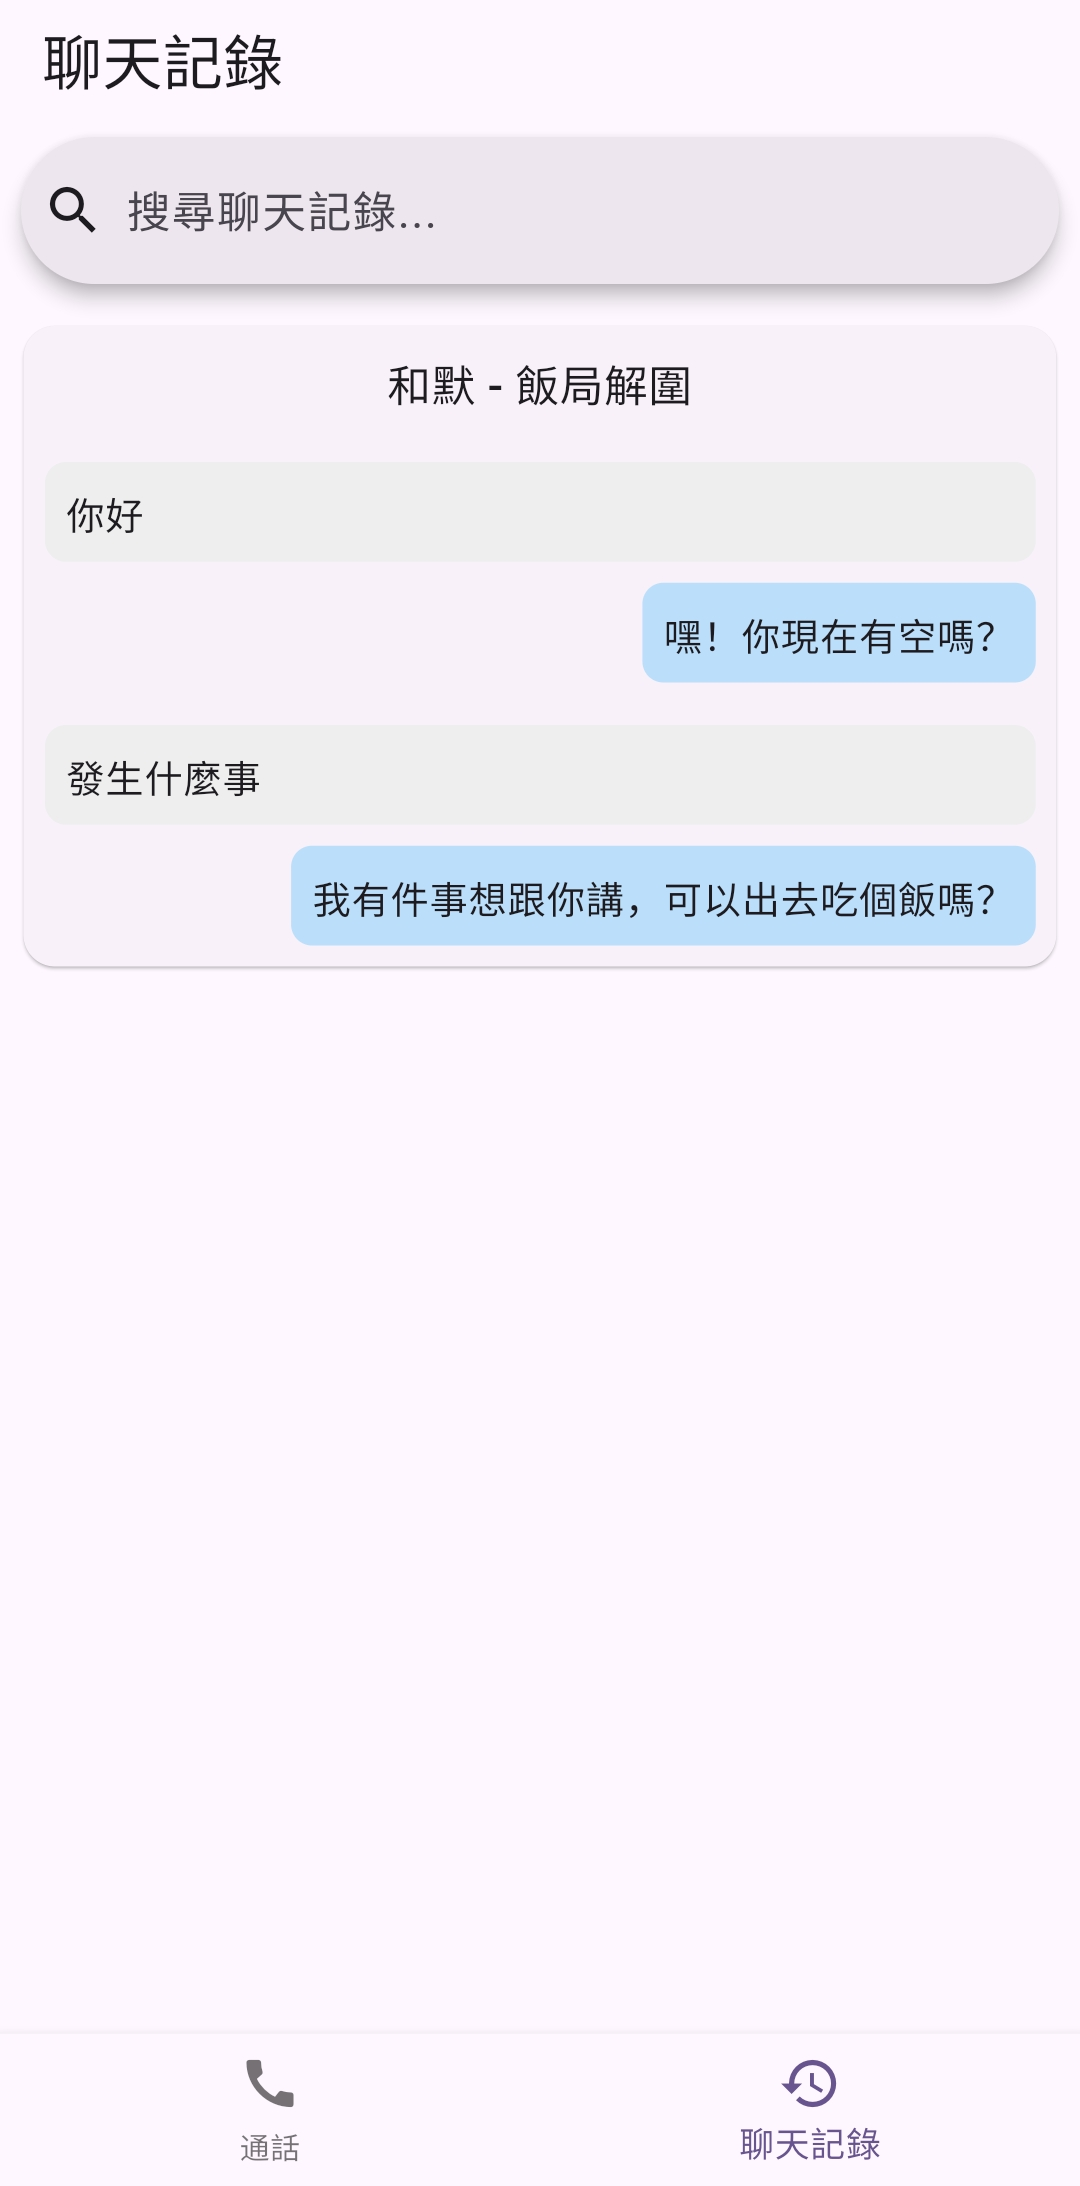
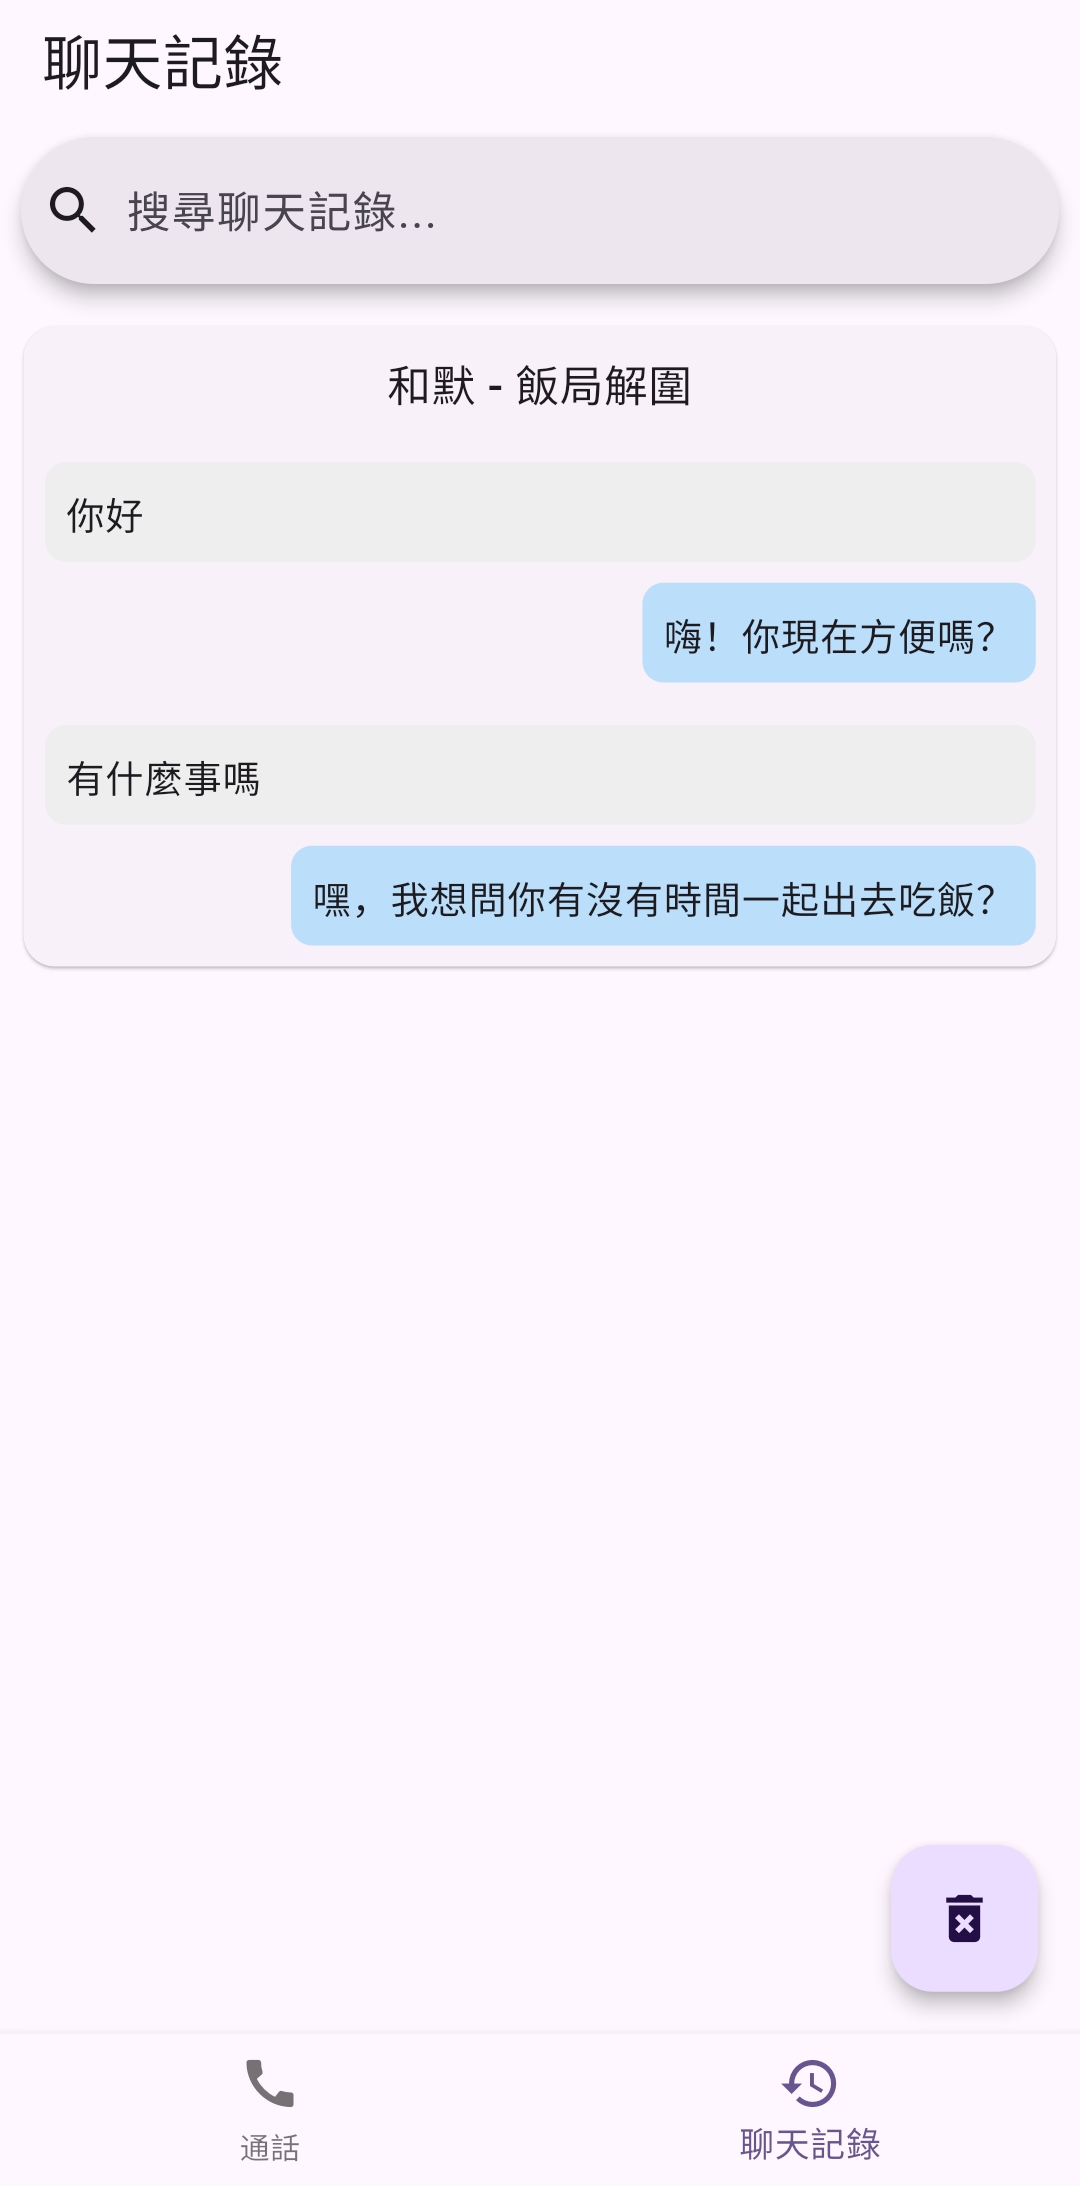
feat: remove chat records

diff --git a/lib/pages/chat_history.dart b/lib/pages/chat_history.dart
@@ -12,6 +12,13 @@ class ChatHistoryPage extends StatefulWidget {
 class _ChatHistoryPageState extends State<ChatHistoryPage> {
   final TextEditingController _searchController = TextEditingController();
   String _searchQuery = '';
+  late Future<List<ChatRecord>> _recordsFuture;
+
+  @override
+  void initState() {
+    super.initState();
+    _recordsFuture = ChatRecordService().getRecords();
+  }
 
   @override
   void dispose() {
@@ -34,9 +41,63 @@ class _ChatHistoryPageState extends State<ChatHistoryPage> {
     }).toList();
   }
 
+  void _showClearConfirmationDialog() {
+    showDialog(
+      context: context,
+      builder: (BuildContext dialogContext) {
+        return AlertDialog(
+          title: const Text('確認清除'),
+          content: const Text('確定要清除所有聊天記錄嗎？此操作無法復原。'),
+          actions: [
+            TextButton(
+              child: const Text('取消'),
+              onPressed: () {
+                Navigator.of(dialogContext).pop();
+              },
+            ),
+            TextButton(
+              child: const Text('確定清除'),
+              onPressed: () async {
+                // Capture the scaffold context before async operation
+                final scaffoldContext = ScaffoldMessenger.of(context);
+
+                // Close the dialog first
+                Navigator.of(dialogContext).pop();
+
+                // Clear records and handle the result
+                try {
+                  await ChatRecordService().clearRecords();
+                  if (mounted) {
+                    setState(() {
+                      _recordsFuture = ChatRecordService().getRecords();
+                    });
+                    scaffoldContext.showSnackBar(
+                      const SnackBar(content: Text('已清除所有聊天記錄')),
+                    );
+                  }
+                } catch (e) {
+                  if (mounted) {
+                    scaffoldContext.showSnackBar(
+                      SnackBar(content: Text('清除記錄時發生錯誤: $e')),
+                    );
+                  }
+                }
+              },
+            ),
+          ],
+        );
+      },
+    );
+  }
+
   @override
   Widget build(BuildContext context) {
     return Scaffold(
+      floatingActionButton: FloatingActionButton(
+        onPressed: _showClearConfirmationDialog,
+        tooltip: '清除所有記錄',
+        child: const Icon(Icons.delete_forever),
+      ),
       appBar: AppBar(
         title: const Text('聊天記錄'),
         bottom: PreferredSize(
@@ -71,7 +132,7 @@ class _ChatHistoryPageState extends State<ChatHistoryPage> {
       body: Padding(
           padding: const EdgeInsets.symmetric(horizontal: 5.0),
           child: FutureBuilder<List<ChatRecord>>(
-              future: ChatRecordService().getRecords(),
+              future: _recordsFuture,
               builder: (context, snapshot) {
                 if (snapshot.connectionState == ConnectionState.waiting) {
                   return const Center(
@@ -105,28 +166,7 @@ class _ChatHistoryPageState extends State<ChatHistoryPage> {
                     );
                   },
                 );
-              })
-          // Column(
-          //   children: [
-          //     if (filteredRecords.isEmpty && _searchQuery.isNotEmpty)
-          //       const Padding(
-          //         padding: EdgeInsets.all(16.0),
-          //         child: Text('未找到符合搜尋字詞的記錄'),
-          //       ),
-          //     Expanded(
-          //       child: ListView.builder(
-          //         itemCount: filteredRecords.length,
-          //         itemBuilder: (context, index) {
-          //           final record = filteredRecords[index];
-          //           return ChatRecordBlock(
-          //             record: record,
-          //           );
-          //         },
-          //       ),
-          //     ),
-          //   ],
-          // ),
-          ),
+              })),
     );
   }
 }

diff --git a/lib/services/chat_record_service.dart b/lib/services/chat_record_service.dart
@@ -17,7 +17,7 @@ class ChatRecordService {
     return box.values.toList();
   }
 
-  void clearRecords() async {
+  Future<void> clearRecords() async {
     final box = await Hive.openBox<ChatRecord>('chatRecords');
     await box.clear();
   }

diff --git a/README.md b/README.md
@@ -11,14 +11,17 @@ A mobile app that helps you create fake phone calls to avoid social interactions
   <img src=".github/readme_images/select_timer.jpg" width="200" height="400" alt="Timer Selection">
   <img src=".github/readme_images/phone_call.jpg" width="200" height="400" alt="Incoming Call">
   <img src=".github/readme_images/in_call.jpg" width="200" height="400" alt="In Call Screen">
-  <img src=".github/readme_images/history.jpg" width="200" height="400" alt="In Call Screen">
+  <img src=".github/readme_images/history.jpg" width="200" height="400" alt="Chat history">
+  <img src=".github/readme_images/confirm_to_delete.jpg" width="200" height="400" alt="Confirm to delete chat history">
+  <img src=".github/readme_images/history_deleted.jpg" width="200" height="400" alt="Chat history deleted">
 </div>
 
 ## Features
 - Customizable phone call countdown timer
 - Multiple caller profiles
 - Themed call interfaces
-- AI-powered call scenario generation
+- Generate realistic call scenarios using AI
+- Save and manage history locally on your device
 
 ## Prerequisites
 - Flutter SDK
